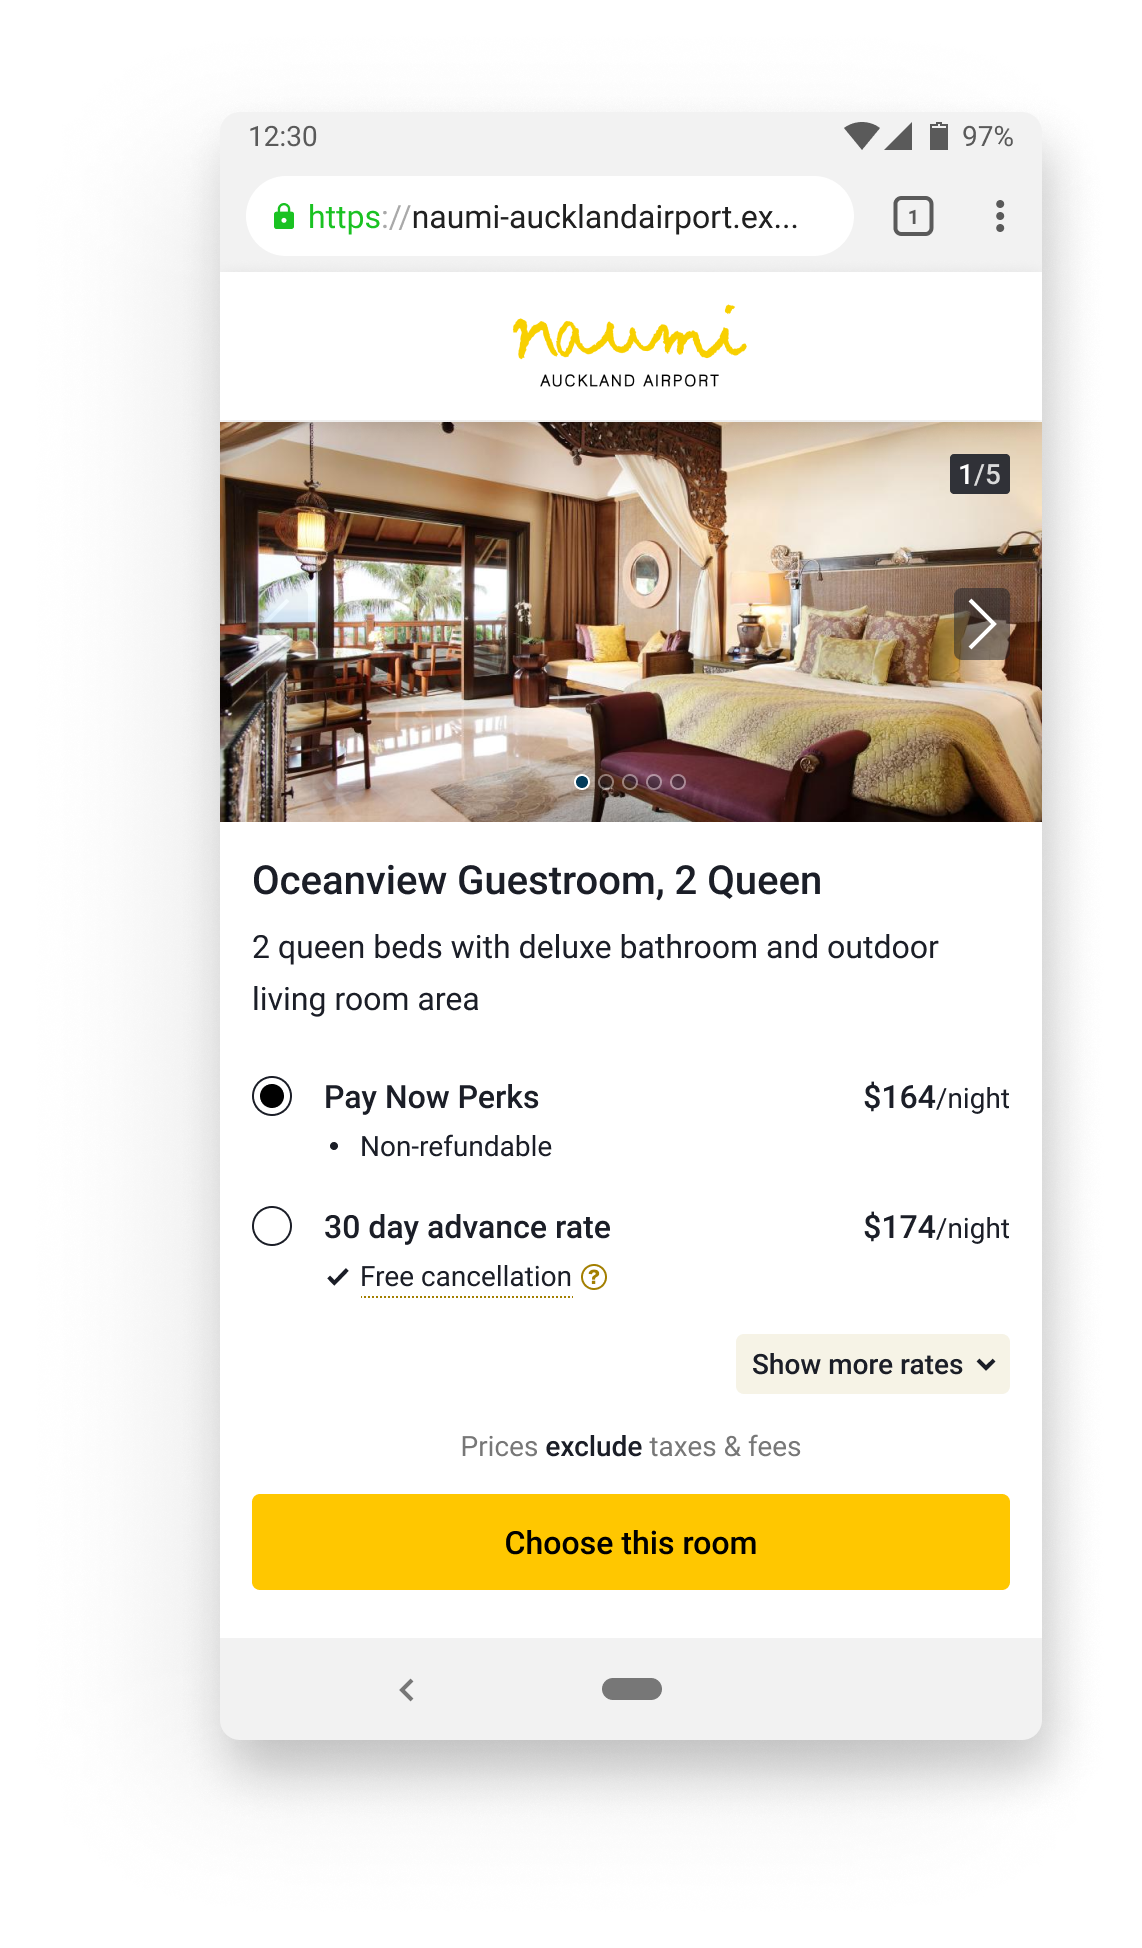
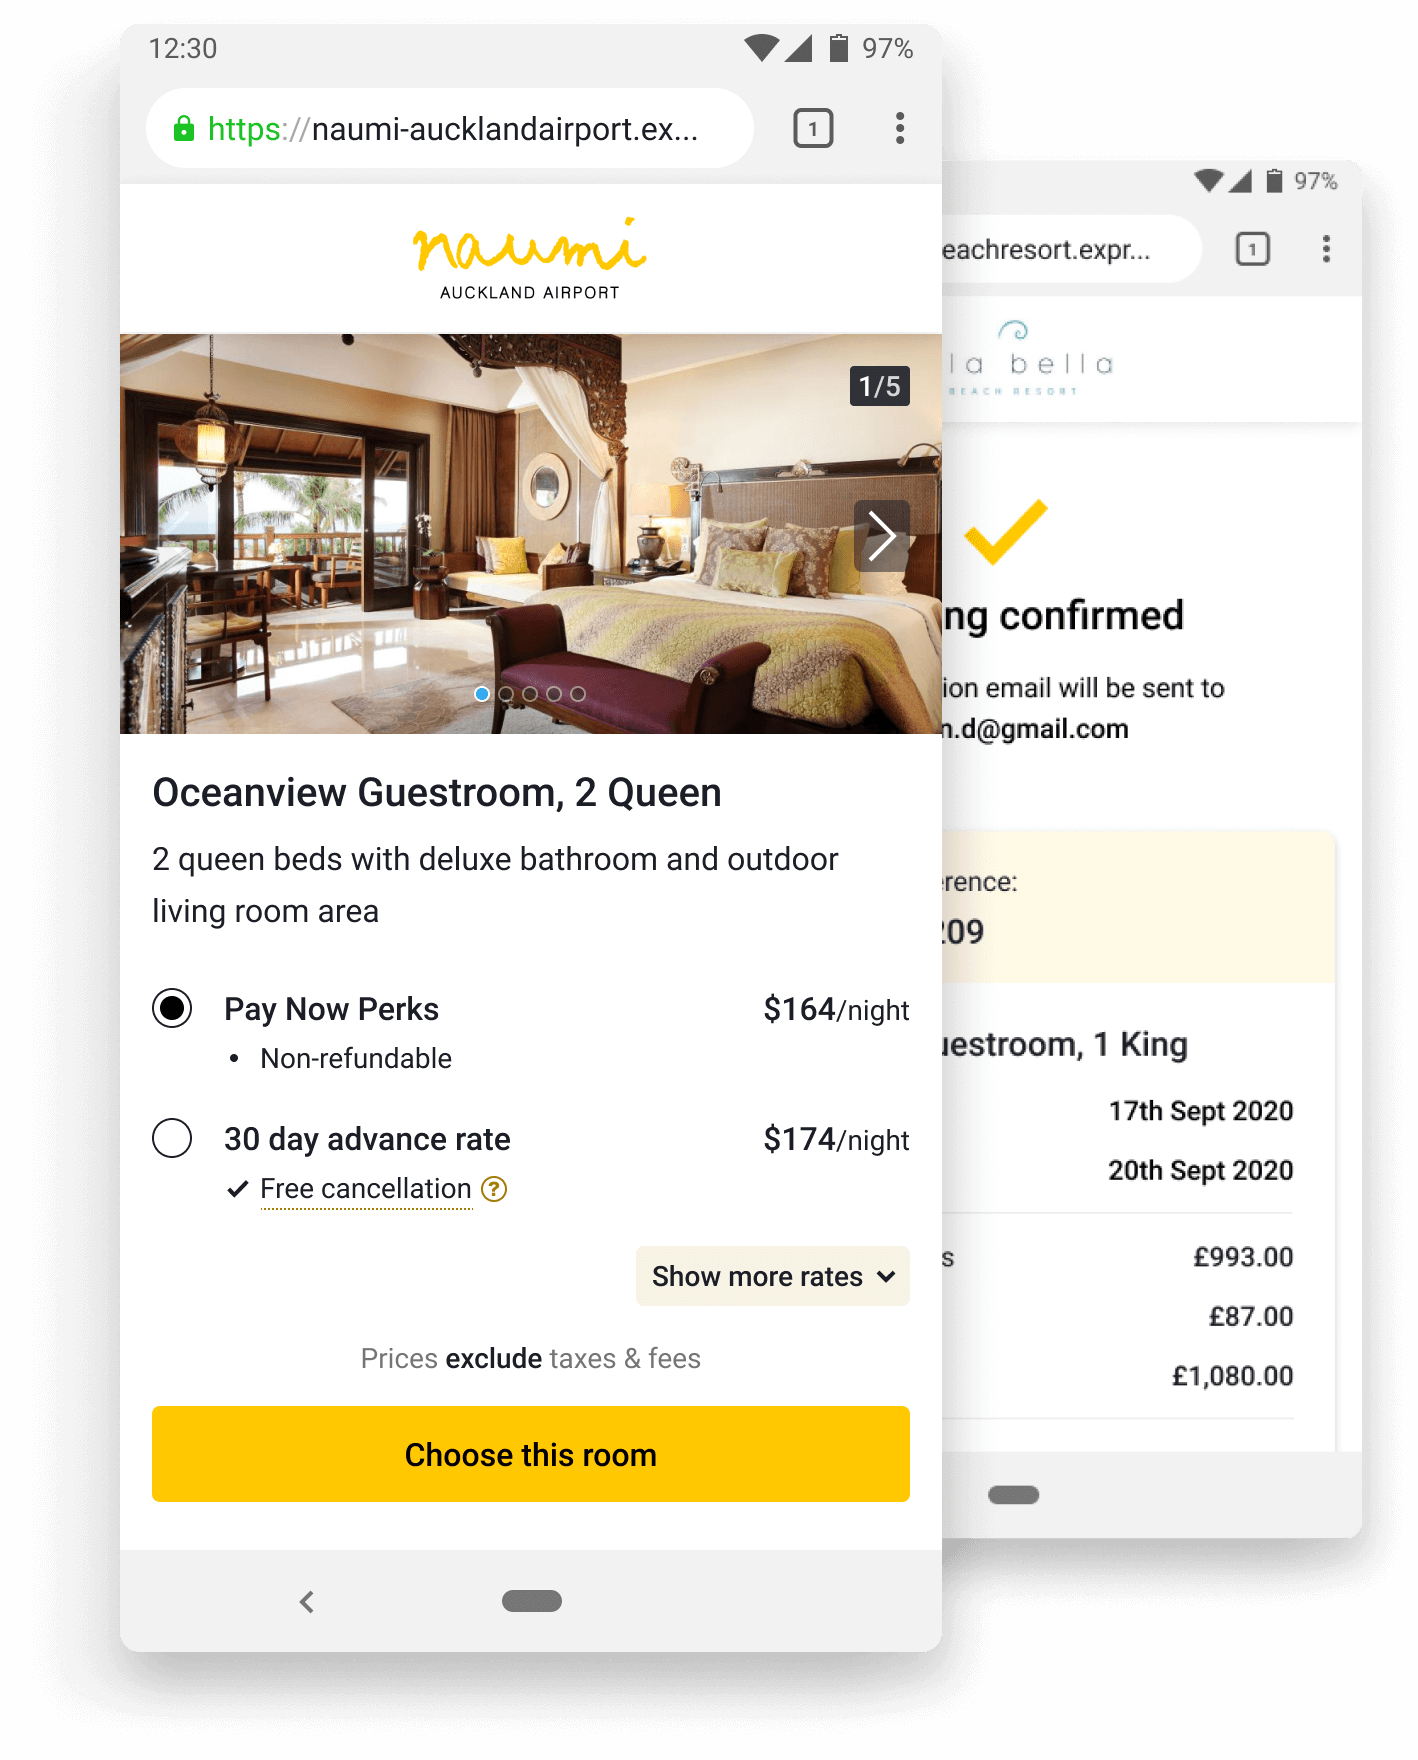
Mobile images

diff --git a/src/Components/CaseStudies/CaseStudyLeft/index.js b/src/Components/CaseStudies/CaseStudyLeft/index.js
@@ -22,18 +22,15 @@ const ProjectLogo = styled.div`
 	@media (max-width: 992px) {
 		padding: 40px 0 40px 0;
 	}
+	@media (max-width: 767px) {
+		display: none;
+	}
 `;
 
 const ProjectLink = styled(Link)`
 	color: rgb(${props => props.projecttheme.link});
 	padding-bottom: 4px;
 	border-bottom: 2px solid rgb(${props => props.projecttheme.link});
-	opacity: 1;
-
-	.fade {
-		opacity: 0;
-		transition: opacity 1000ms;
-	}
 
 	:hover {
 		color: rgb(${props => props.projecttheme.link});
@@ -47,21 +44,24 @@ const ProjectLink = styled(Link)`
 `;
 
 const MainImg = styled.img`
-	height: 550px;
+	height: 500px;
 	padding: 30px;
 `;
 
-class CaseStudyLeft extends Component {
-	handleClick() {
-		console.log("click");
-		ProjectLink.classList.toggle("fade");
+const MainImgMobile = styled.img`
+	padding-top: 30px;
+	@media (min-width: 767px) {
+		display: none;
 	}
-	render(handleClick) {
+`;
+
+class CaseStudyLeft extends Component {
+	render() {
 		return (
 			<div>
 				<CaseStudyContainer projecttheme={this.props.projecttheme}>
 					<div className="row">
-						<div className="col-12 col-md-6">
+						<div className="col-10 col-md-6 offset-1  offset-md-0">
 							<ProjectLogo logoWidth={this.props.logoWidth}>
 								<img
 									src={this.props.logo}
@@ -78,7 +78,6 @@ class CaseStudyLeft extends Component {
 							>
 								View case study
 							</ProjectLink>
-							<button onClick={handleClick}>Fade Out</button>
 						</div>
 						<div className="text-center col-6 d-none d-md-block overflow-hidden">
 							<Fade>
@@ -90,6 +89,15 @@ class CaseStudyLeft extends Component {
 								></MainImg>
 							</Fade>
 						</div>
+
+						<Fade>
+							<MainImgMobile
+								className="img-fluid"
+								showAnim={this.props.showAnim}
+								src={this.props.mainImageMobile}
+								alt={this.props.imagealt}
+							></MainImgMobile>
+						</Fade>
 					</div>
 				</CaseStudyContainer>
 			</div>

diff --git a/src/Components/Bio/index.js b/src/Components/Bio/index.js
@@ -1,27 +1,36 @@
 import React from "react";
-import styled from "styled-components"
+import styled from "styled-components";
 
-import Link from "../Link"
+import Link from "../Link";
 
 const Container = styled.div`
-  padding-top: 120px;
-  padding-bottom: 120px;
-`
+	padding-top: 120px;
+	padding-bottom: 120px;
+`;
 
 class Biography extends React.Component {
-  render() {
-    return (
-      <Container>
-        <div className="row">
-          <div className="col-sm-10 col-lg-7 offset-sm-1">
-            <h1>Chris, a product designer in London.</h1>
-            <h4>Building digital things for 10 years.</h4>
-            <p>I work at <Link href={"http://www.triptease.com"} target="blank">Triptease</Link>, helping hotels drive direct bookings. I'm obsessed with technology and, by making things constantly, I experiment with what's possible. I get my inspiration from the people and products around me that I'm natually drawn to.</p>
-          </div>
-        </div>
-      </Container>
-    );
-  }
+	render() {
+		return (
+			<Container>
+				<div className="row">
+					<div className="col-sm-10 col-lg-7 offset-1">
+						<h1>Chris, a product designer in London.</h1>
+						<h4>Building digital things for 10 years.</h4>
+						<p>
+							I work at{" "}
+							<Link href={"http://www.triptease.com"} target="blank">
+								Triptease
+							</Link>
+							, helping hotels drive direct bookings. I'm obsessed with
+							technology and, by making things constantly, I experiment with
+							what's possible. I get my inspiration from the people and products
+							around me that I'm natually drawn to.
+						</p>
+					</div>
+				</div>
+			</Container>
+		);
+	}
 }
 
 export default Biography;

diff --git a/src/Pages/HomeFullPage/index.js b/src/Pages/HomeFullPage/index.js
@@ -7,11 +7,14 @@ import CaseStudyLeft from "../../Components/CaseStudies/CaseStudyLeft";
 import theme from "../../styles/theme.style";
 
 import MainImageExpress from "../../Pages/Projects/ExpressBooking/express-cover.png";
+import MainImageExpressMobile from "../../Pages/Projects/ExpressBooking/Express-Mobile.png";
 
 import LogoTriptease from "../../Pages/Projects/Triptease/Logo.png";
 import MainImageTriptease from "../../Pages/Projects/Triptease/chat-flow.png";
+import MainImageTripteaseMobile from "../../Pages/Projects/Triptease/Chat-Mobile.png";
 import LogoFixr from "../../Pages/Projects/Fixr/box-logo-red.png";
 import MainImageFixr from "../../Pages/Projects/Fixr/two-apps.png";
+import MainImageFixrMobile from "../../Pages/Projects/Fixr/EntryManager-Mobile.png";
 
 const sections = [
 	{
@@ -23,6 +26,7 @@ const sections = [
 		logoalt: "Triptease logo",
 		logoWidth: "200px",
 		mainImage: MainImageExpress,
+		mainImageMobile: MainImageExpressMobile,
 		imagealt: "Chat dialog UI",
 		projectLink: "/projects/triptease"
 	},
@@ -35,6 +39,7 @@ const sections = [
 		logoalt: "Triptease logo",
 		logoWidth: "200px",
 		mainImage: MainImageTriptease,
+		mainImageMobile: MainImageTripteaseMobile,
 		imagealt: "Chat dialog UI",
 		projectLink: "/projects/triptease"
 	},
@@ -47,6 +52,7 @@ const sections = [
 		logoalt: "Fixr logo",
 		logoWidth: "150px",
 		mainImage: MainImageFixr,
+		mainImageMobile: MainImageFixrMobile,
 		imagealt: "Scanner main list view",
 		projectLink: "/projects/fixr"
 	}
